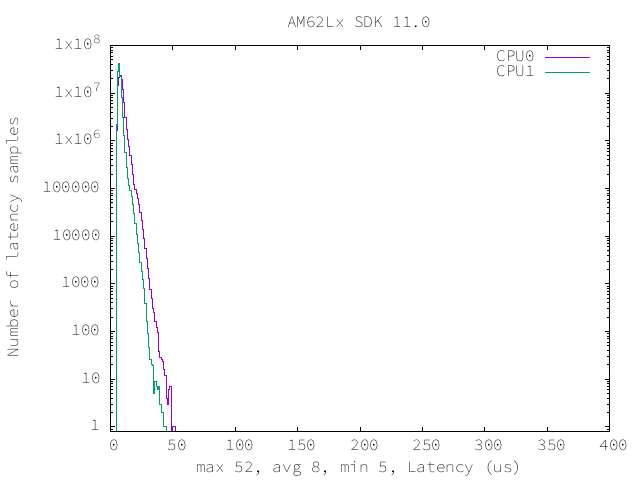
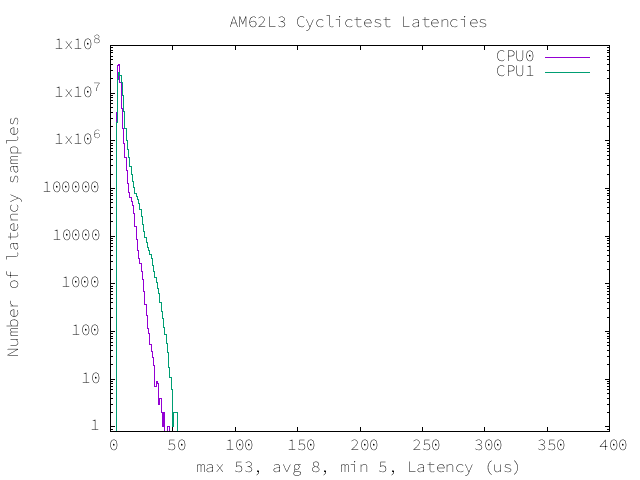
docs(linux): AM62LX: Update PREEMPT_RT perf numbers
Update the AM62Lx latency numbers for the 11.00.15 tagged SDK

diff --git a/source/devices/AM62LX/linux/RT_Linux_Performance_Guide.rst b/source/devices/AM62LX/linux/RT_Linux_Performance_Guide.rst
@@ -62,7 +62,7 @@ The latencies observed with this SDK are summarized below:
    :header: "Latencies","CPU 0","CPU 1"
 
    "Minimum (us)","5","5"
-   "Average (us)","8","7"
-   "Maximum (us)","52","44"
+   "Average (us)","6","8"
+   "Maximum (us)","47","53"
 
 .. image:: img/rt-cpu-method-all-latency-histogram.png
